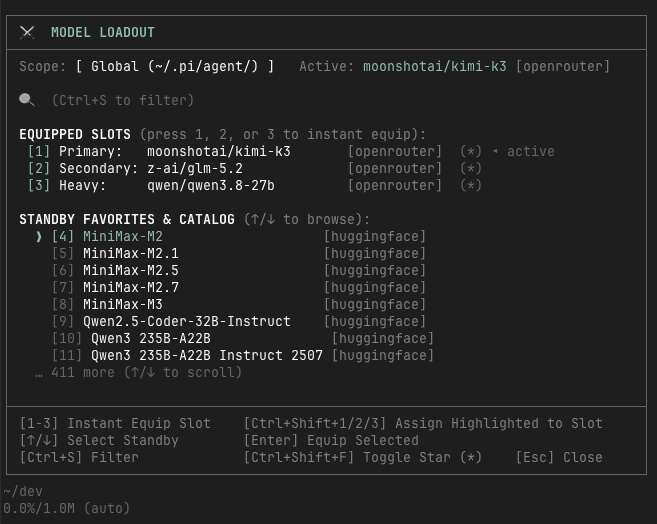
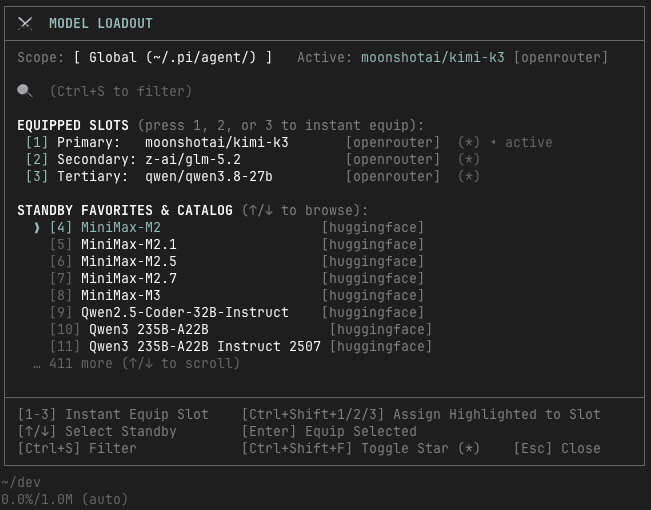
docs: replace preview.jpg + ascii to match new screenshot (kimi-k3 / qwen3.8-27b)

diff --git a/README.md b/README.md
@@ -9,20 +9,25 @@ A video game–style **Weapon Loadout** (Quick Slots 1 / 2 / 3) and persistent f
 ┌─────────────────────────────────────────────────────────────────────────────┐
 │ ⚔  MODEL LOADOUT                                                            │
 ├─────────────────────────────────────────────────────────────────────────────┤
-│ Scope: [ Global (~/.pi/agent/) ]  Active: moonshotai/Kimi-K2 [huggingface]  │
+│ Scope: [ Global (~/.pi/agent/) ]  Active: moonshotai/kimi-k3 [openrouter]    │
 │                                                                             │
 │ 🔍 (Ctrl+S to filter)                                                       │
 │                                                                             │
 │ EQUIPPED SLOTS (press 1, 2, or 3 to instant equip):                         │
-│ [1] Primary:   moonshotai/Kimi-K2-Instruct  [huggingface]  (*) ◂ active    │
-│ [2] Secondary: (empty — Ctrl+Shift+2 on a standby row to assign)            │
-│ [3] Tertiary:  minimaxai/MiniMax-M2         [huggingface]  (*)             │
+│ [1] Primary:   moonshotai/kimi-k3            [openrouter]  (*) ◂ active    │
+│ [2] Secondary: (empty — Ctrl+Shift+2 on a standby row to assign)           │
+│ [3] Tertiary:  qwen/qwen3.8-27b            [openrouter]  (*)             │
 │                                                                             │
 │ STANDBY FAVORITES & CATALOG (↑/↓ to browse):                                │
-│ ❯ [4] MiniMaxAI/MiniMax-M2                  [huggingface]  (*)             │
-│   [5] moonshotai/Kimi-K2-Instruct           [huggingface]  (*)             │
-│   [6] MiniMax-M2.1                          [huggingface]                  │
-│   … 413 more (↑/↓ to scroll)                                                │
+│ ❯ [4] MiniMax-M2              [huggingface]                       │
+│   [5] MiniMax-M2.1            [huggingface]                       │
+│   [6] MiniMax-M2.5            [huggingface]                       │
+│   [7] MiniMax-M2.7            [huggingface]                       │
+│   [8] MiniMax-M3              [huggingface]                       │
+│   [9] Qwen2.5-Coder-32B-Instruct [huggingface]                    │
+│   [10] Qwen3 235B-A22B        [huggingface]                       │
+│   [11] Qwen3 235B-A22B Instruct 2507 [huggingface]                │
+│   … 411 more (↑/↓ to scroll)                                      │
 ├─────────────────────────────────────────────────────────────────────────────┤
 │ [1-3] Instant Equip Slot     [Ctrl+Shift+1/2/3] Assign Highlighted to Slot │
 │ [↑/↓] Select Standby         [Enter] Equip Selected                        │
